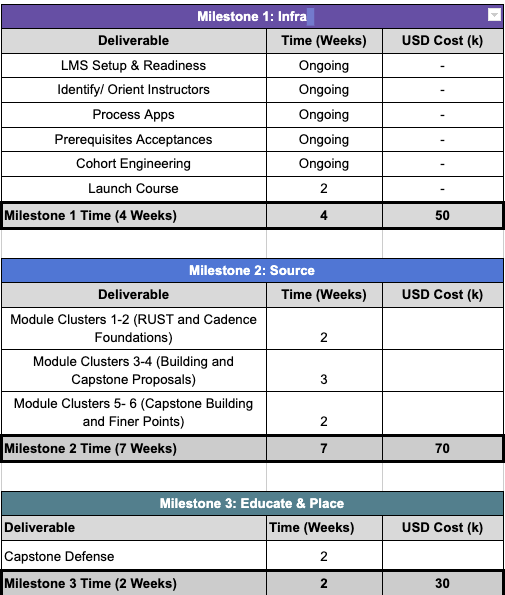
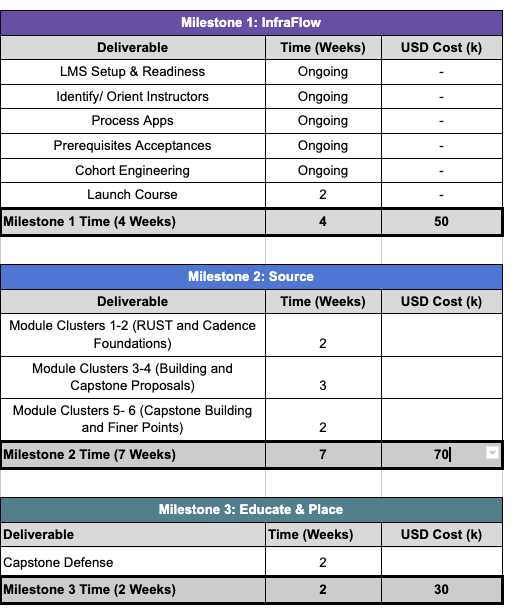
adds image

diff --git a/Readme.md b/Readme.md
@@ -1,0 +1,159 @@
+```# Web3 Builders Alliance Flow Division 
+
+# Grant category
+
+- Educational Material/Programming
+
+# Description
+
+The Web3 Builders Alliance trains aspiring lead and senior developers to serve projects across Web3. Juno Network funds the current 2 cohorts students are selected via an advanced, highly selective application process. For the upcoming cohort, there are close to 40 candidates signed up to participate. A partnership between the WBA and Flow creates immense potential to train developers to build the next wave of leading dApps in the Flow ecosystem.
+
+The WBA model, a tremendous value added over traditional bootcamps, learning tutorials, and other commonly used self-directed learning approaches, developers complete factual and conceptual development asynchronously. In addition the class meets for three 90 minute live building sessions each week. These sessions maintain a minimum of a 5:1 student-to-teacher ratio and focus on building authentic projects that are relevant to the partner ecosystem. An example of a project that is in progress, developers learning at the institute funded by Juno are currently building twin test chains, and connecting them with IBC relayers.
+
+The course is currently a 10 week session that culminates in a capstone project. These PoCs and MVPs projects are then reviewed by a panel of experts. That means that the course also directly contributes to the ecosystem with the capstone projects. In addition, during the duration of the program our cadets are also improving developer tooling, creating PR’s for code improvements, and working on documentation.  Upon graduation developers are awarded a non-transferable an NFT which is a WBA Certification. The metadata displays their work, skills, and interests. 
+
+These NFT’s then become part of the WBA Developer Marketplace where projects can recruit and hire vetted professionals, while reviewing their portfolios that reflect work that was completed under the supervision of the WBA.  
+
+
+## Problem statement
+- The shortage of professional, vetted developers with a known quality of preparation continues to bottleneck the growth of Web3. Further, hiring an unqualified developer for a project can cost 30K or more, and the lost time of 1-2 months before discovering the poor hire. 
+- There is a lack of professionalism, collaborative skill set, and focus on serving the public good amongst the community. 
+- One of the many [articles](https://blockworks.co/theres-a-shortage-of-tech-and-female-crypto-talent-report/) describing the need for more talent in web3.
+
+
+## Proposed solution
+
+The Web3 Builders Alliance would like to offer an eight week long course to give developers deep knowledge about successfully building on Flow.  The course would inject a high -level of developer quality specifically trained to build on Flow, and Flow would have input on curriculum development, cadet projects, and capstone review during the course.
+
+## Impact
+
+- In what ways does this benefit the broader Flow developer ecosystem?
+The one sure hedge in Web3 is to bet on great developers. This is what we will deliver. Expertise, collaborative-mindset, and professionalism injected into the Flow ecosystem, while also building public goods and developer tooling during the course will lift the Flow developer ecosystem. 
+
+# Milestones and funding
+The WBA proposes that we enter an agreement wherein we will run four quarterly sessions (2 cohorts each of 12-15 cadets).  Based on the below breakdown by quarter, Flow will grant the WBA $600K for a year of training developers.   This agreement will follow the below milestones, and be contingent upon Flow supporting the recruitment process by directing those who have completed the entry level training currently offered on Flow to the WBA institute. NOTE: The current per cohort fees are $150K per session.  We offer a significant discount for the commitment to the WBA. 
+
+
+
+
+![Flow Numbers Chart](https://github.com/Web3-Builders-Alliance/Flow/blob/master/flow.png?raw=true)
+
+
+
+
+
+
+
+
+
+
+
+
+
+
+Milestone 1: InfraFlow
+Deliverable
+Time (Weeks)
+USD Cost (k)
+LMS Setup & Readiness
+Ongoing
+-
+Identify/ Orient Instructors
+Ongoing
+-
+Process Apps
+Ongoing
+-
+Prerequisites Acceptances 
+Ongoing
+-
+Cohort Engineering 
+Ongoing
+-
+Launch Course
+2
+-
+Milestone 1 Time (4 Weeks)
+4
+50
+
+
+
+
+
+
+Milestone 2: Source
+Deliverable
+Time (Weeks)
+USD Cost (k)
+Module Clusters 1-2 (RUST and Cadence Foundations) 
+2
+
+
+Module Clusters 3-4 (Building and Capstone Proposals)
+3
+
+
+Module Clusters 5- 6 (Capstone Building and Finer Points) 
+2
+
+
+Milestone 2 Time (7 Weeks)
+7
+70
+
+
+
+
+
+
+Milestone 3: Educate & Place
+Deliverable
+Time (Weeks)
+USD Cost (k)
+Capstone Defense
+2
+
+
+Milestone 3 Time (2 Weeks)
+2
+30
+
+
+
+> Note: You can leave the USD proposal empty / "TBD". Please consider adoption and/or maintenance milestones at the end of your project.
+
+ 
+# Team
+
+| Name                | Role                                                    | Bio                                                                              | Contact         |
+| ---------------| -----------------------------------|------------------------------------------------ | --------------- |
+|Devon Martens | Lead Smart Contract Instructor || Former bootcamp instructor at the University of Minnesota, Curriculum Engineer for a  Blockchain program at 2U. Currently is the principal blockchain engineer at Sweet. 6 years of development experience at multiple reputable companies.                                                                                                | dev@web3builders.dev |
+
+|Richard | Lead Smart Contract Instructor || Richard is a senior blockchain engineer with almost 2 decades of professional engineering experience, and 5 + years working with Rust. Most notably, he developed the first Cosmos <> Solana multi-chain NFT mint with the HeroNFT collections, a project he was a the center of building.
+
+|Richard | Lead Cadence Instructor || Richard is a developer with Dapper Labs, where his expertise in Cadence and intimate familiarity with the Flow platform will allow us to deliver a masters level course that prepares certified graduates to step directly into productive roles on existing project, while also supporting the process of grooming emerging founder/developers in the Institute to spawn new projects. 
+
+```
+|Jeff Rothstein | Co-Founder and Program Architect | A retired professional educator and curriculum designer of 30 years, turned hacker & Web3 evangelist. He spends his days building learning experiences to prepare the next wave of world changing developers.
+Jeff@web3builders.dev	
+
+|Chauncey St. John |  Co-Founder, Impact|| After a successful operational leadership career with GE, Chauncey founded and serves as CEO of Angel Protocol, harnessing the power of Web3 for charity endowments, social entrepreneurship & impact investing
+
+|Nathaniel Hughes| Co-Founder, Strategy|| Nate is a professional blockchain strategist & researcher. He advises many blockchain projects including Concordia, Wisdomise, Medici & Loop.
+
+|Daniel Mirantz| Co-Founder, Operations|| Instilling a sense of community & culture within the WBA, Dan’s quality background and cross-functional expertise ensure the WBA’s goals remain clear and in sight.
+
+|Uri Ferruccio| Advisor, Partnerships|| Uri is a partner at Tabiya, a cyrto venture fund. Uri combines entrepreneurial, executive, and investment experience across web3 and web2. Prior to Tabiya, Uri was a VP at Binance & founding Executive Director at BNB Chain Foundation, founded JD.com’s (Nasdaq 100) AI division and blockchain accelerator, founded a fintech co and venture builder, and worked at DE Shaw ($60B AUM) in research and investments
+
+|Jimmie Jeremejev| Advisor, Operations|| Jimmie is a partner at Tabiya. Jimmie brings extensive experience as an investor and operator active in web3 since 2014. Prior to Tabiya, Jimmie co-founded a China-centric asset management co ($100M+ AUM), an early-stage blockchain investment firm (avg ~140x MOIC), was MD at PE firm Lehman Bush, & founded an energy financial modeling co exited to Siemens.
+
+Links: 
+
+Website (WIP- New Site going up this week)  
+
+Medium
+
+Twitter
+
+GitHub 
